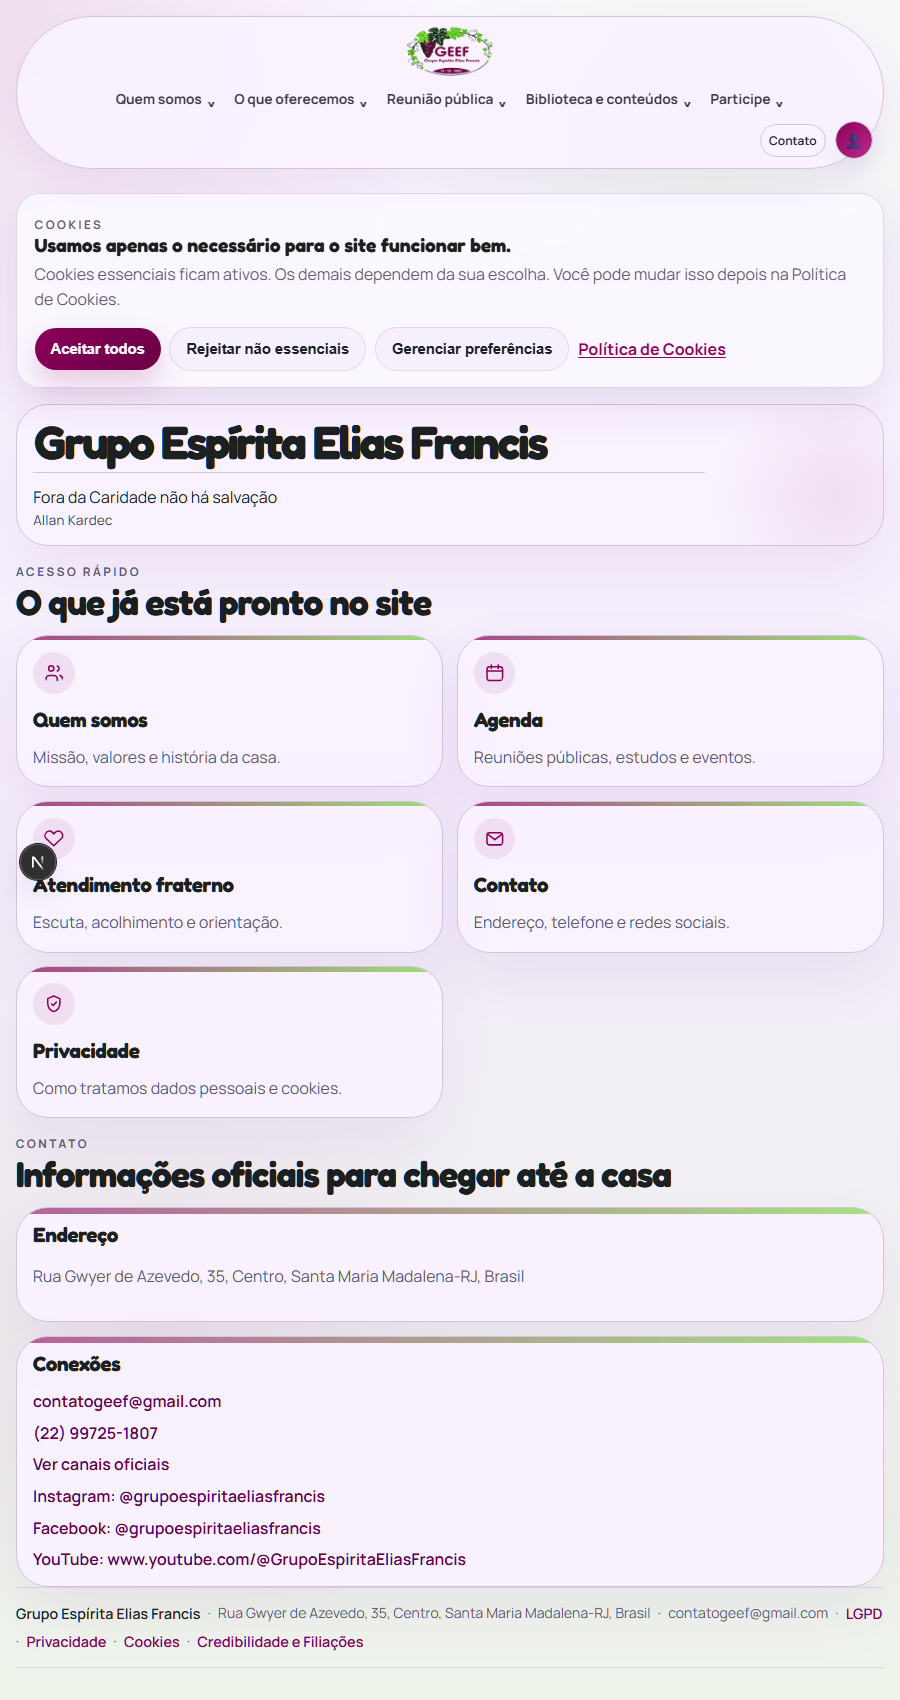
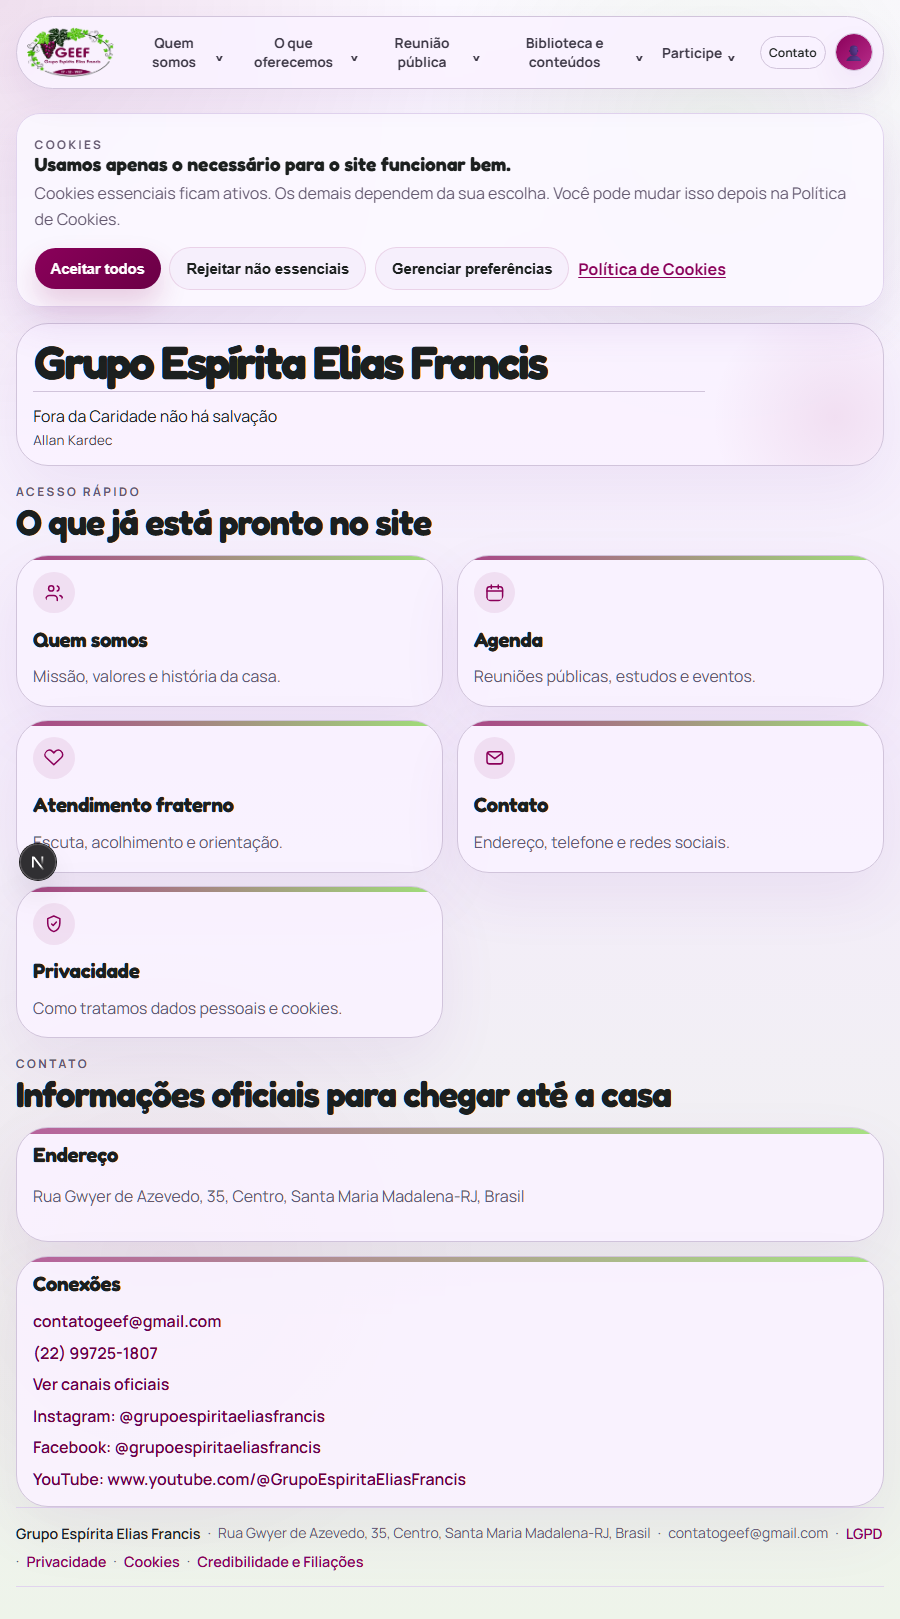
fix: travar topbar em uma unica linha

diff --git a/components/site-header.tsx b/components/site-header.tsx
@@ -80,6 +80,7 @@ export function SiteHeader({
 
   return (
     <header className="site-header">
+      <div className="site-header-row">
       <Link href="/" className="site-header-brand" aria-label={site.name}>
         <span className="site-header-brand-logo">
           <Image
@@ -144,6 +145,7 @@ export function SiteHeader({
         avatarUrl={avatarUrl}
         hasAdminAccess={hasAdminAccess}
       />
+      </div>
 
       {activeGroup && !mobileMenuOpen && (
         <section className="site-context-navigation" aria-label={`Opções de ${activeGroup.label}`}>

diff --git a/styles/site-header.css b/styles/site-header.css
@@ -17,7 +17,17 @@
   border: 1px solid var(--border-medium);
   border-radius: 999px;
   box-shadow: 0 14px 30px rgba(124, 63, 163, 0.08);
-  flex-wrap: wrap;
+  flex-direction: column;
+  align-items: stretch;
+}
+
+.site-header-row {
+  display: flex;
+  align-items: center;
+  gap: 0.9rem;
+  width: 100%;
+  min-width: 0;
+  flex-wrap: nowrap;
 }
 
 /* Brand Logo */
@@ -135,7 +145,6 @@
 }
 
 .site-context-navigation {
-  flex: 0 1 100%;
   width: 100%;
   box-sizing: border-box;
   min-width: 0;
